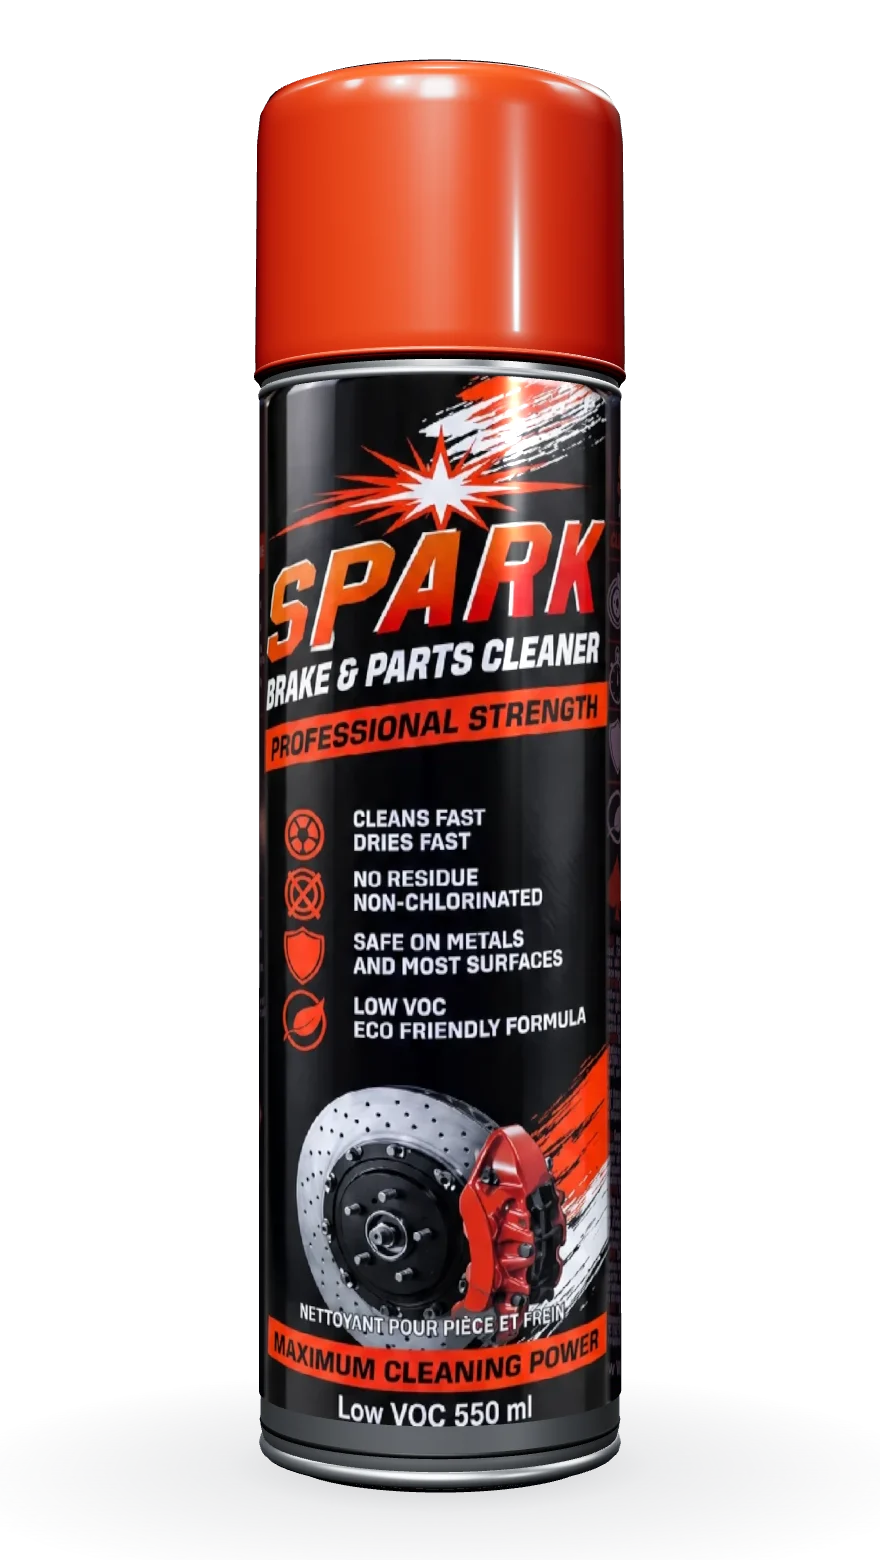
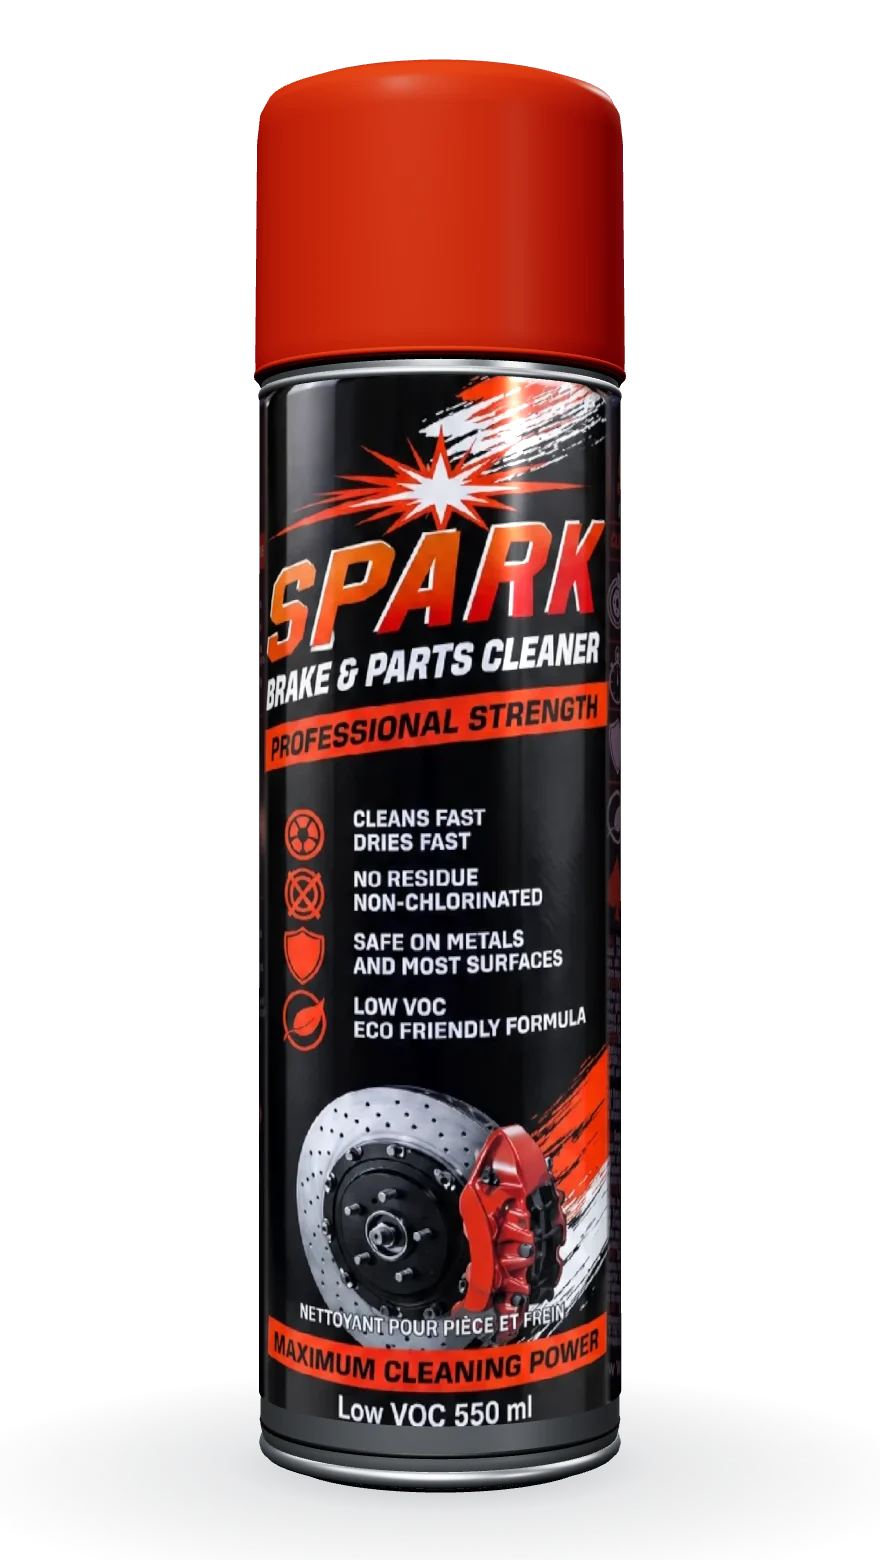
Tone down the hero can, nav "Become a dealer" CTA, company label
- Hero can: quieter orange glow, satin cap matched to the real cap colour,
  softer lighting and label gloss; placeholder re-rendered to match.
- Nav button now reads "Become a dealer" on every page and opens the
  contact form with "Becoming a distributor" preselected (?enquiry=).
- Form label "Company or workshop" is now "Company".

Changed region(s): [[0.3068, 0.0308, 0.7057, 0.2462], [0.2761, 0.0615, 0.3068, 0.2462]]

diff --git a/js/stage.js b/js/stage.js
@@ -144,7 +144,7 @@ async function buildCan() {
   renderer.setPixelRatio(Math.min(devicePixelRatio, innerWidth < 700 ? 1.5 : 2));
   renderer.outputColorSpace = THREE.SRGBColorSpace;
   renderer.toneMapping = THREE.ACESFilmicToneMapping;
-  renderer.toneMappingExposure = 0.95;
+  renderer.toneMappingExposure = 0.9;
   renderer.setClearColor(0x000000, 0);
   renderer.domElement.setAttribute('aria-hidden', 'true');
   host.appendChild(renderer.domElement);
@@ -166,7 +166,7 @@ async function buildCan() {
      carries its own photographed lighting and ignores these (see below). */
   scene.add(new THREE.HemisphereLight(0xffffff, 0x2a2622, 0.75));
 
-  const key = new THREE.DirectionalLight(0xffffff, 2.6);
+  const key = new THREE.DirectionalLight(0xffffff, 2.2);
   key.position.set(-3.4, 5.6, 6.4);
   scene.add(key);
 
@@ -175,7 +175,7 @@ async function buildCan() {
   scene.add(fill);
 
   // rim light from behind separates the black can from the dark stage
-  const back = new THREE.DirectionalLight(0xffffff, 1.6);
+  const back = new THREE.DirectionalLight(0xffffff, 1.0);
   back.position.set(2.5, 3.5, -6);
   scene.add(back);
 
@@ -186,11 +186,12 @@ async function buildCan() {
   rig.add(body);
 
   const steel = new THREE.MeshStandardMaterial({ color: 0xc9ced3, metalness: 0.92, roughness: 0.28 });
-  // Sampled from the studio photograph of the real cap: a deep red-orange in
-  // hard-gloss plastic, so most of its brightness comes from highlights.
+  // Tuned against the studio photograph of the real cap (mean colour about
+  // 199,50,10): a satin, saturated red-orange. Mirror-gloss and a strong
+  // environment reflection turn it pink and toy-like.
   const capRed = new THREE.MeshPhysicalMaterial({
-    color: 0xc0360a, roughness: 0.3, metalness: 0, envMapIntensity: 0.9,
-    clearcoat: 1, clearcoatRoughness: 0.07
+    color: 0xd63e08, roughness: 0.45, metalness: 0, envMapIntensity: 0.16, specularIntensity: 0.1,
+    clearcoat: 0.12, clearcoatRoughness: 0.35
   });
   const black = new THREE.MeshStandardMaterial({ color: 0x0a0c0e, roughness: 0.38, metalness: 0.18 });
 
@@ -220,7 +221,7 @@ async function buildCan() {
   // valve
   const valve = new THREE.Mesh(
     new THREE.CylinderGeometry(0.17, 0.2, 0.3, 64),
-    new THREE.MeshStandardMaterial({ color: 0xdedcd7, roughness: 0.36, metalness: 0.1 })
+    new THREE.MeshStandardMaterial({ color: 0xb8b6b1, roughness: 0.4, metalness: 0.1 })
   );
   valve.position.y = 2.0;
   body.add(valve);
@@ -283,8 +284,8 @@ async function buildCan() {
   body.add(label);
 
   const lacquer = new THREE.Mesh(labelGeo, new THREE.MeshPhysicalMaterial({
-    color: 0x000000, roughness: 0.22, metalness: 0, envMapIntensity: 0.55,
-    clearcoat: 0.6, clearcoatRoughness: 0.12,
+    color: 0x000000, roughness: 0.22, metalness: 0, envMapIntensity: 0.1,
+    clearcoat: 0.14, clearcoatRoughness: 0.14,
     transparent: true, blending: THREE.AdditiveBlending, depthWrite: false
   }));
   lacquer.position.y = -0.3;
@@ -294,7 +295,7 @@ async function buildCan() {
   // contact shadow
   const shadow = new THREE.Mesh(
     new THREE.PlaneGeometry(3.4, 3.4),
-    new THREE.MeshBasicMaterial({ map: softShadow(), transparent: true, opacity: 0.4, depthWrite: false })
+    new THREE.MeshBasicMaterial({ map: softShadow(), transparent: true, opacity: 0.5, depthWrite: false })
   );
   shadow.rotation.x = -Math.PI / 2;
   shadow.position.y = -2.3;
@@ -378,7 +379,7 @@ async function buildCan() {
     camera.position.lerp(tmp, snapNext ? 1 : 0.12);
     camera.lookAt(0, frameDrop, 0);
 
-    shadow.material.opacity = 0.4 - pose.lift * 0.12;
+    shadow.material.opacity = 0.5 - pose.lift * 0.14;
 
     // Everything has settled and nothing is driving it — stop painting.
     if (moved < 0.0004 && !dragging && !dirty) return;

diff --git a/css/site.css b/css/site.css
@@ -41,7 +41,7 @@ button{cursor:pointer}button,a,summary{touch-action:manipulation}table{border-co
 .burger span:first-child{top:17px}.burger span:last-child{top:25px}
 .burger[aria-expanded=true] span:first-child{transform:translateY(4px) rotate(45deg)}.burger[aria-expanded=true] span:last-child{transform:translateY(-4px) rotate(-45deg)}
 /* The can is the hero. Its stage is contained at every viewport size. */
-.stage{background:#0a0a0c;color:#f4f5f6}.stage__pin{padding:36px 0 48px;background:radial-gradient(60% 70% at 72% 45%,#2a1406 0%,#0d0d0f 60%,#08080a 100%)}
+.stage{background:#0a0a0c;color:#f4f5f6}.stage__pin{padding:36px 0 48px;background:radial-gradient(60% 70% at 72% 45%,#170b04 0%,#0d0d0f 60%,#08080a 100%)}
 .stage__grid{max-width:var(--wrap);margin:auto;padding-inline:var(--gut);display:grid;grid-template-columns:minmax(0,1fr) minmax(0,1fr);gap:18px 6%;align-items:center}
 .stage__copy{grid-row:1/3;min-width:0;padding-block:24px}
 
@@ -53,14 +53,14 @@ button{cursor:pointer}button,a,summary{touch-action:manipulation}table{border-co
 .js .stage .beat.is-on{visibility:visible;opacity:1;pointer-events:auto}
 .factrow{display:grid;grid-template-columns:repeat(4,auto);justify-content:start;gap:16px 0;margin-top:40px;max-width:560px}.factrow__item{padding-inline:22px;border-left:1px solid var(--rule)}.factrow__item:first-child{padding-left:0;border-left:0}
 .factrow__item{min-width:0}.factrow dt{font-size:.75rem;color:var(--muted)}.factrow dd{font-size:.9375rem;font-weight:650;margin-top:2px}
-.stage__plate{position:relative;isolation:isolate;grid-column:2;width:100%;height:clamp(460px,68vh,680px);overflow:hidden;background:radial-gradient(42% 40% at 50% 46%,#fc5a0070 0%,#fc5a0024 45%,transparent 72%);border-radius:8px}
+.stage__plate{position:relative;isolation:isolate;grid-column:2;width:100%;height:clamp(460px,68vh,680px);overflow:hidden;background:radial-gradient(42% 40% at 50% 46%,#fc5a0034 0%,#fc5a0010 45%,transparent 72%);border-radius:8px}
 
 .stage__size{position:absolute;z-index:2;pointer-events:none;top:25px;right:26px;font-size:1.5rem;line-height:1;font-weight:700;letter-spacing:-.05em;color:#e1e5e8}.stage__size small{font-size:.75rem;font-weight:500;letter-spacing:0}
 .stage__plate{--ct:25px;--cb:34px}.stage__canvas{position:absolute;inset:var(--ct) 0 var(--cb);opacity:0;transition:opacity .35s ease}.stage__canvas canvas{width:100%;height:100%;display:block;touch-action:pan-y}
 
 .stage__photo{position:absolute;left:0;top:var(--ct);width:100%;height:calc(100% - var(--ct) - var(--cb));object-fit:contain;pointer-events:none;transition:opacity .35s ease}
 .stage__grab{position:absolute;bottom:18px;left:0;right:0;text-align:center;font-size:.75rem;color:var(--muted);opacity:0;pointer-events:none}
-.stage.is-live .stage__plate{background:radial-gradient(42% 40% at 50% 46%,#fc5a0070 0%,#fc5a0024 45%,transparent 72%)}
+.stage.is-live .stage__plate{background:radial-gradient(42% 40% at 50% 46%,#fc5a0034 0%,#fc5a0010 45%,transparent 72%)}
 .stage.is-live .stage__size,.stage.is-live .stage__grab{color:#e1e5e8}
 .stage.is-live .stage__canvas{opacity:1;cursor:grab}.stage.is-live .stage__photo{opacity:0}.stage.is-live .stage__grab{opacity:1}.stage.is-live .is-dragging{cursor:grabbing}
 .stage__rail{display:none;grid-column:2;min-width:0}.js .stage .stage__rail{display:block}

diff --git a/contact.html b/contact.html
@@ -51,10 +51,10 @@
       <a href="/#specs">Specifications</a>
       <a href="/about">About</a>
       <a href="/contact" aria-current="page">Contact</a>
-      <a class="menu__cta button button--solid" href="/contact#enquiry">Send an enquiry</a>
+      <a class="menu__cta button button--solid" href="/contact?enquiry=distributor#enquiry">Become a dealer</a>
     </nav>
 
-    <a class="button button--solid masthead__cta" href="/contact#enquiry">Send an enquiry</a>
+    <a class="button button--solid masthead__cta" href="/contact?enquiry=distributor#enquiry">Become a dealer</a>
 
     <button class="burger" id="burger" type="button" aria-label="Open menu" aria-expanded="false" aria-controls="menu">
       <span></span><span></span>
@@ -92,7 +92,7 @@
           <p class="field__error" id="e-name" hidden>Enter your name.</p>
         </div>
         <div class="field">
-          <label for="f-company">Company or workshop</label>
+          <label for="f-company">Company</label>
           <input id="f-company" name="company" type="text" autocomplete="organization">
         </div>
       </div>

diff --git a/index.html b/index.html
@@ -52,10 +52,10 @@
       <a href="#specs">Specifications</a>
       <a href="/about">About</a>
       <a href="/contact">Contact</a>
-      <a class="menu__cta button button--solid" href="/contact#enquiry">Send an enquiry</a>
+      <a class="menu__cta button button--solid" href="/contact?enquiry=distributor#enquiry">Become a dealer</a>
     </nav>
 
-    <a class="button button--solid masthead__cta" href="/contact#enquiry">Send an enquiry</a>
+    <a class="button button--solid masthead__cta" href="/contact?enquiry=distributor#enquiry">Become a dealer</a>
 
     <button class="burger" id="burger" type="button" aria-label="Open menu" aria-expanded="false" aria-controls="menu">
       <span></span><span></span>
@@ -448,7 +448,7 @@
           <p class="field__error" id="e-name" hidden>Enter your name.</p>
         </div>
         <div class="field">
-          <label for="f-company">Company or workshop</label>
+          <label for="f-company">Company</label>
           <input id="f-company" name="company" type="text" autocomplete="organization">
         </div>
       </div>

diff --git a/about.html b/about.html
@@ -51,10 +51,10 @@
       <a href="/#specs">Specifications</a>
       <a href="/about" aria-current="page">About</a>
       <a href="/contact">Contact</a>
-      <a class="menu__cta button button--solid" href="/contact#enquiry">Send an enquiry</a>
+      <a class="menu__cta button button--solid" href="/contact?enquiry=distributor#enquiry">Become a dealer</a>
     </nav>
 
-    <a class="button button--solid masthead__cta" href="/contact#enquiry">Send an enquiry</a>
+    <a class="button button--solid masthead__cta" href="/contact?enquiry=distributor#enquiry">Become a dealer</a>
 
     <button class="burger" id="burger" type="button" aria-label="Open menu" aria-expanded="false" aria-controls="menu">
       <span></span><span></span>

diff --git a/404.html b/404.html
@@ -38,10 +38,10 @@
       <a href="/#specs">Specifications</a>
       <a href="/about">About</a>
       <a href="/contact">Contact</a>
-      <a class="menu__cta button button--solid" href="/contact#enquiry">Send an enquiry</a>
+      <a class="menu__cta button button--solid" href="/contact?enquiry=distributor#enquiry">Become a dealer</a>
     </nav>
 
-    <a class="button button--solid masthead__cta" href="/contact#enquiry">Send an enquiry</a>
+    <a class="button button--solid masthead__cta" href="/contact?enquiry=distributor#enquiry">Become a dealer</a>
 
     <button class="burger" id="burger" type="button" aria-label="Open menu" aria-expanded="false" aria-controls="menu">
       <span></span><span></span>

diff --git a/brake-cleaner-guide.html b/brake-cleaner-guide.html
@@ -53,10 +53,10 @@
       <a href="/#specs">Specifications</a>
       <a href="/about">About</a>
       <a href="/contact">Contact</a>
-      <a class="menu__cta button button--solid" href="/contact#enquiry">Send an enquiry</a>
+      <a class="menu__cta button button--solid" href="/contact?enquiry=distributor#enquiry">Become a dealer</a>
     </nav>
 
-    <a class="button button--solid masthead__cta" href="/contact#enquiry">Send an enquiry</a>
+    <a class="button button--solid masthead__cta" href="/contact?enquiry=distributor#enquiry">Become a dealer</a>
 
     <button class="burger" id="burger" type="button" aria-label="Open menu" aria-expanded="false" aria-controls="menu">
       <span></span><span></span>

diff --git a/js/site.js b/js/site.js
@@ -224,6 +224,11 @@
      form with that enquiry type already chosen. */
   var enquiryType = document.getElementById('f-type');
   if (enquiryType) {
+    // Arriving from a link like /contact?enquiry=distributor (the nav button).
+    var wanted = (new URLSearchParams(window.location.search)).get('enquiry');
+    if (wanted && Array.prototype.some.call(enquiryType.options, function (o) { return o.value === wanted; })) {
+      enquiryType.value = wanted;
+    }
     Array.prototype.forEach.call(document.querySelectorAll('[data-enquiry]'), function (link) {
       link.addEventListener('click', function () {
         enquiryType.value = link.getAttribute('data-enquiry');
